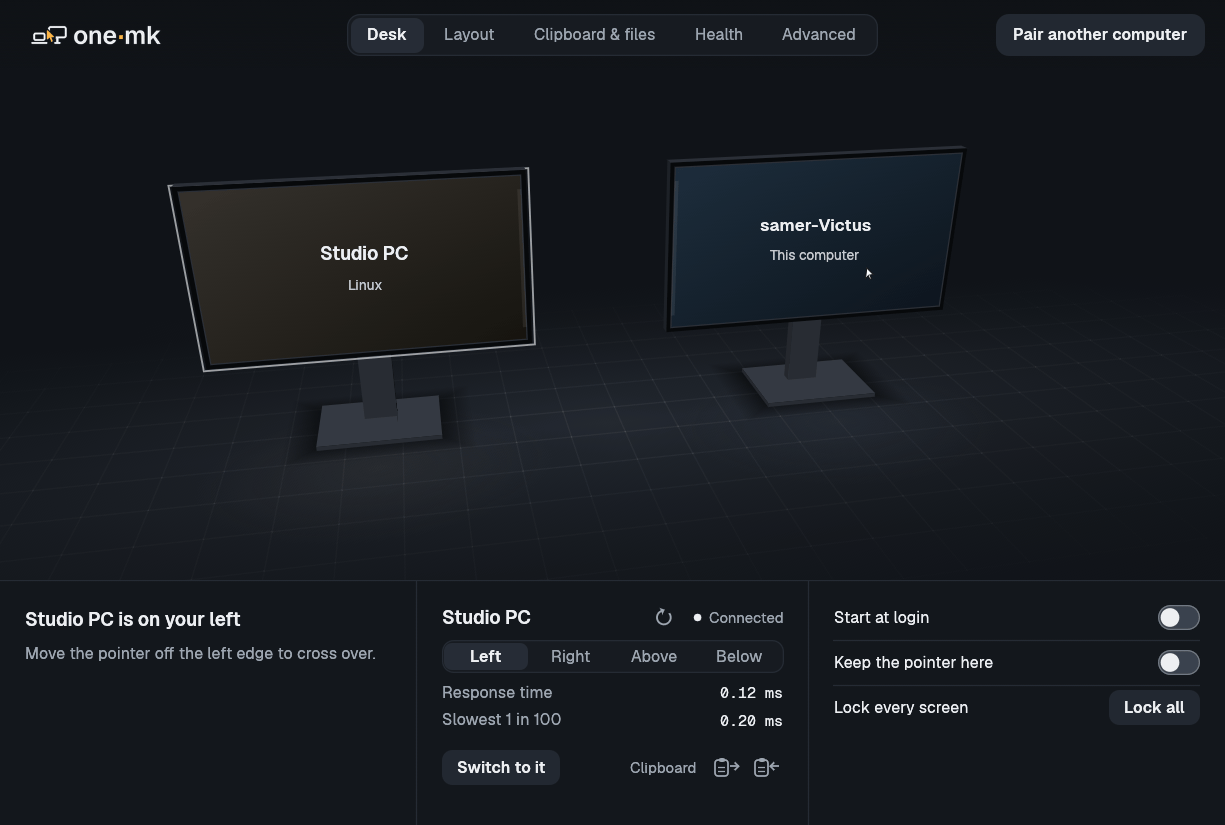
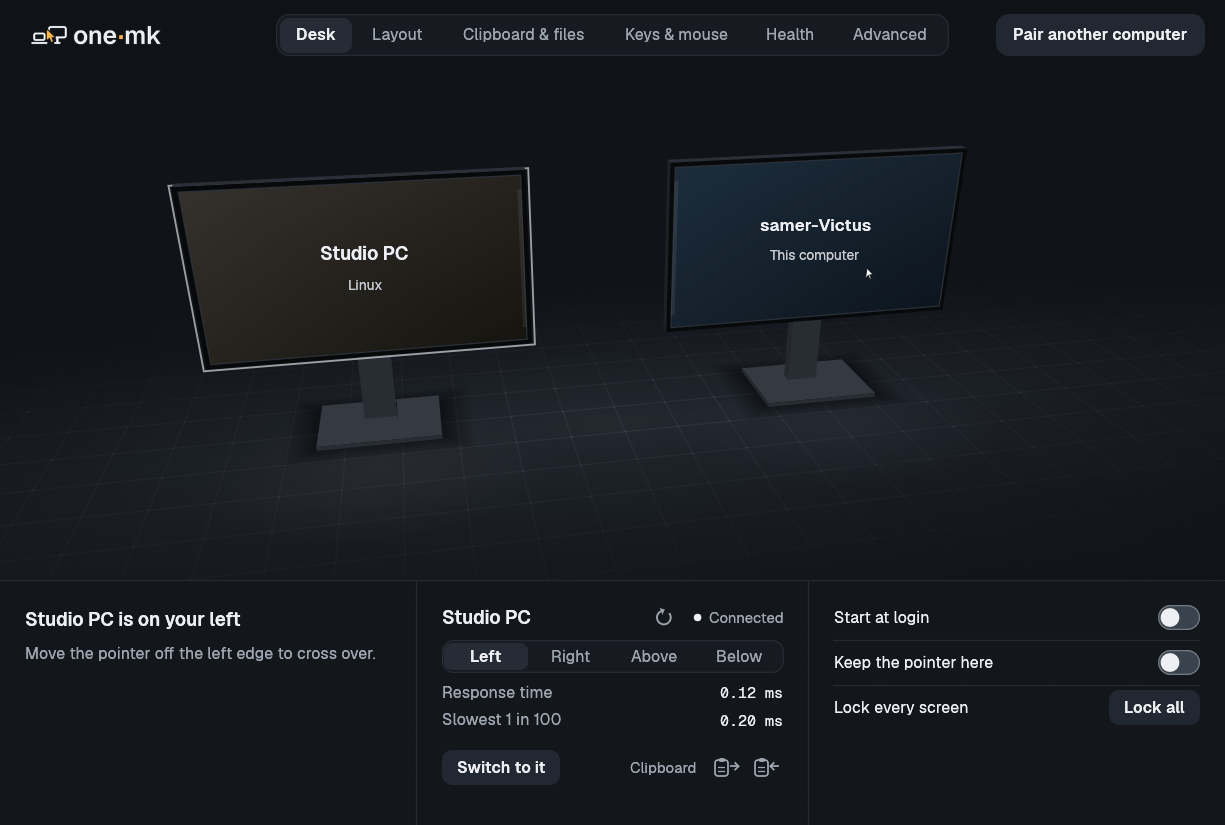
Screenshots of Keys & mouse, and its design review
scripts/ui-shots.sh writes rules with the real one-mk keymap|buttons|scroll
and shoots nine states of the new tab (keyboard, editor with Test it,
press-a-key at 760x540, search, mouse, mouse at 760x540, problems with a
long computer name, keyboard focus, nothing set). 03 and 06 show the
six-tab bar. Findings, fixes and sampled contrast are in DESIGN-REVIEW.

Changed region(s): [[0.3722, 0.0303, 0.7755, 0.0606], [0.2171, 0.0, 0.3412, 0.0909]]

diff --git a/docs/DESIGN-REVIEW.md b/docs/DESIGN-REVIEW.md
@@ -195,3 +195,38 @@ daemons with `run --backend null`, and builds with `-j 3`.
 - A screen reader actually speaking the tree (Orca, NVDA, VoiceOver). The roles and names were read from
   the code, not heard.
 - Keyboard-only use beyond the focus screenshots and reading the code.
+
+## Keys & mouse (plan 4B)
+
+The sixth tab, reviewed the same way from `scripts/ui-shots.sh` (shots 43 to 51, plus 03 and 06 for the
+six-tab bar at full and narrow width). Its one job: change what keys and buttons do on the other computers,
+and try it before it is used. One amber action per area: "Press the new key" in the key editor, "Press a key
+or shortcut" for a mouse button.
+
+| # | screenshot | problem | fix |
+|---|---|---|---|
+| k1 | 43 (first draft) | Punctuation keys showed their names cut off ("Mi…", "Back…" for `\`). | Keys show their character (`-`, `[`, `\`); long legends ("Backspace", "Super") step down a size before they are cut. |
+| k2 | 43 (first draft) | At the default size the rule list and the Test it box were below the fold. | In a wide window the quick setups stand in a column beside the keyboard; the cards below start on screen. |
+| k3 | 45 (first draft) | At 760 × 540 a clicked key's editor opened below the fold, unseen. | Opening the editor (or a mouse button's choices) scrolls it into view; no animation with reduced motion. |
+| k4 | 45 (first draft) | The "Press the key…" box had a fixed height; its note ran out of it. | The box is as tall as its text; the full list of keys that can't be pressed is in the hover text and the accessible name. |
+| k5 | 49 | Problems used the daemon's table names ("input.keymap.rule #6"). | "Key rule 6", "Button rule 1". A long computer name in **For:** is cut with an ellipsis. |
+| k6 | 48 | At 760 wide, "As this computer", "Mouse wheel" and "Forward (browser)" were cut. | "Like here", "Wheel", "Go forward"; the accessible names keep the full words. |
+| k7 | 46 | The search list stayed seven rows tall for two results. | It is as tall as the results (three rows at least). |
+| k8 | first save | Saving a rule from the window wrote the settings folder as the rule's target (`--home` came after `--`). | The folder goes before the command; caught by looking at the saved result, now checked on every shot run. |
+| k9 | 50 | The desk's focus hook moved the keyboard off the key in the screenshot. | The hook leaves this tab alone. |
+
+Contrast, sampled from the committed PNGs (most contrasting pixel against the region's most common colour):
+
+| what | ratio |
+|---|---|
+| Key outline against the panel / against the key's fill | 3.74:1 / 3.08:1 (was 3.18 / 2.62 before `KEY_EDGE` was lightened) |
+| Key legend (INK2 on the key) | 6.02:1 |
+| A changed key's target (INK on the lit key) | 11.39:1 |
+| Focus ring and selected key (amber on the panel) | 10.24:1 |
+| Quick setup chip outline | 3.74:1 |
+| Test box placeholder | 7.62:1 (was 4.31:1 in OFF; now INK2) |
+| Acceleration Off/Curve, disabled | 4.09:1 (as m6: inactive, still readable) |
+| Error text and dot | 15.62:1 / 6.44:1 |
+
+Not verified: real key presses into the window on Windows and macOS (only Linux/Wayland screenshots, and
+key events were simulated through the debug hooks); a screen reader speaking the keyboard.
